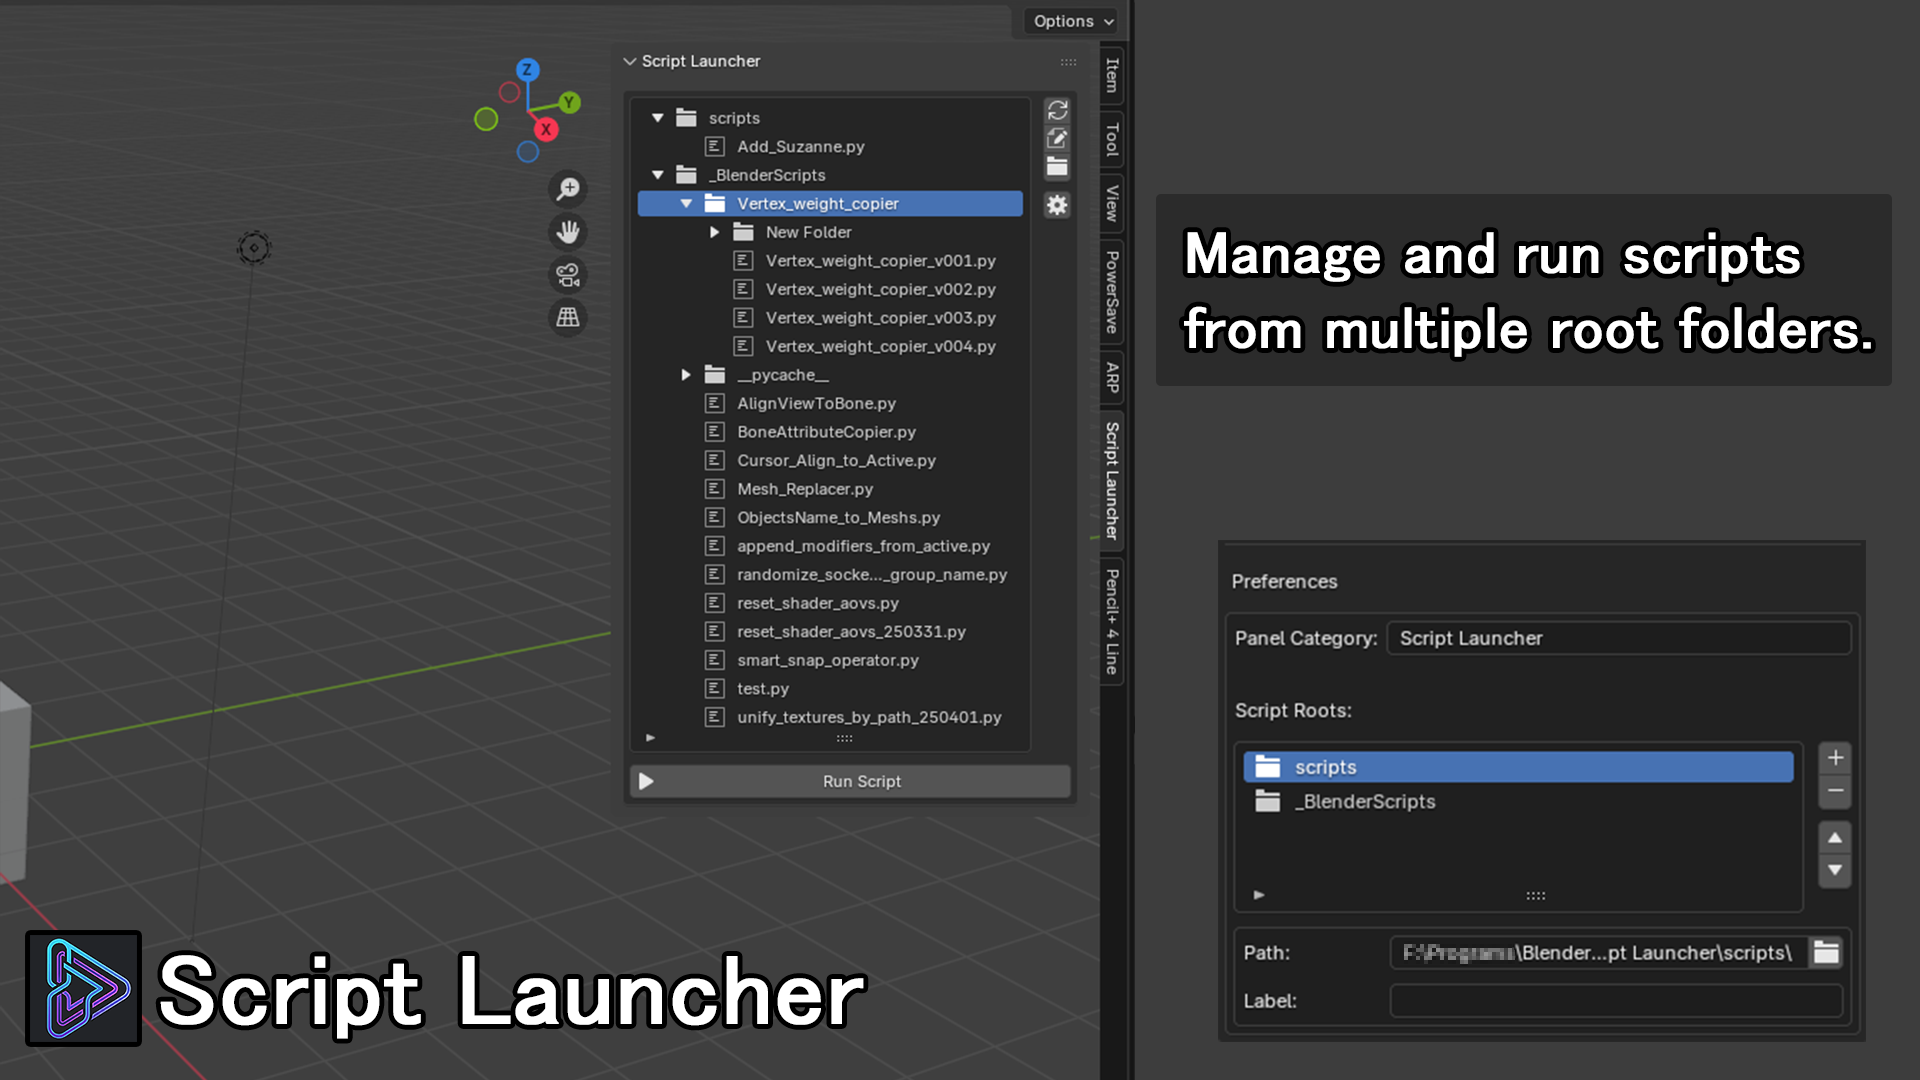
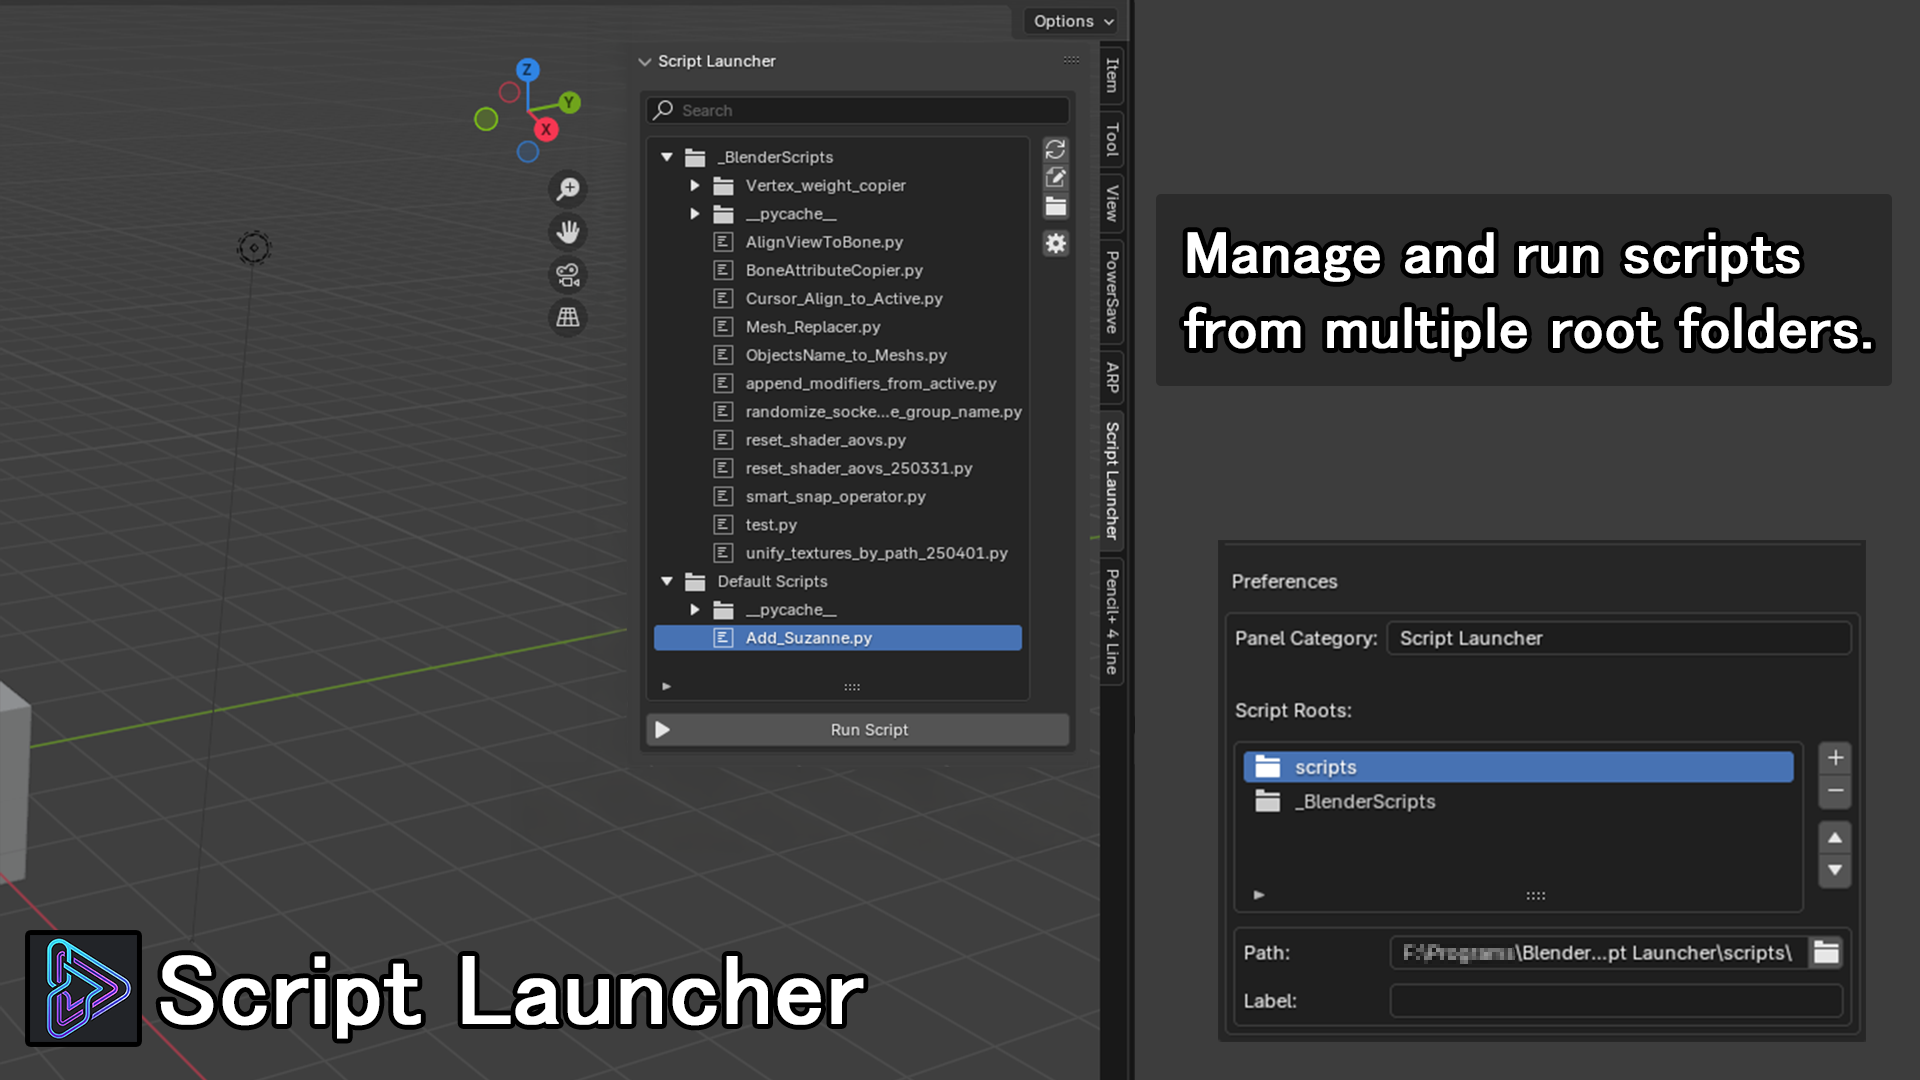
Add search feature and optimize tree building (v1.2.0)
- Add real-time script search with TEXTEDIT_UPDATE option
- Fix selection restoration on search clear using full_path matching
- Introduce filesystem cache (_fs_cache) to avoid redundant reads during typing
- Merge _add_folder_contents/_add_folder_contents_filtered into single function
- Replace _has_match + double-scan with single-pass speculative add/remove approach
- Remove dead code (indent_level == -1 checks)
- Call invalidate_fs_cache() in REMOVE_ROOT operator for consistency
- Bump version to 1.2.0, update README and blender_manifest.toml

Changed region(s): [[0.3125, 0.0917, 0.5625, 0.7333], [0.3125, 0.0306, 0.4062, 0.0611]]

diff --git a/Script Launcher/core.py b/Script Launcher/core.py
@@ -4,11 +4,44 @@ import os
 
 
 # ---------------------------------------------------------------------------
+# ファイルシステムキャッシュ
+# ---------------------------------------------------------------------------
+
+_fs_cache: dict = {}
+
+
+def _get_entries(folder_path):
+    """キャッシュからサブフォルダとPYファイル一覧を返す。"""
+    if folder_path not in _fs_cache:
+        try:
+            entries = os.listdir(folder_path)
+        except (PermissionError, FileNotFoundError):
+            entries = []
+        folders = sorted([
+            e for e in entries
+            if not e.startswith('.') and os.path.isdir(os.path.join(folder_path, e))
+        ])
+        files = sorted([
+            e for e in entries
+            if not e.startswith('.') and e.endswith('.py')
+            and os.path.isfile(os.path.join(folder_path, e))
+        ])
+        _fs_cache[folder_path] = (folders, files)
+    return _fs_cache[folder_path]
+
+
+def invalidate_fs_cache():
+    """キャッシュを破棄する（Refresh時やパス変更時に呼ぶ）。"""
+    _fs_cache.clear()
+
+
+# ---------------------------------------------------------------------------
 # PropertyGroup: ルートフォルダ項目（プリファレンス用）
 # ---------------------------------------------------------------------------
 
 def _on_root_path_update(self, context):
     try:
+        invalidate_fs_cache()
         build_visible_tree(context)
     except (AttributeError, KeyError):
         pass
@@ -47,9 +80,34 @@ class SCRIPTLAUNCHER_TREE_NODE(bpy.types.PropertyGroup):
 # PropertyGroup: Scene に登録するグループ
 # ---------------------------------------------------------------------------
 
+def _on_search_update(self, context):
+    try:
+        # ツリー再構築前に現在の選択パスを保存
+        current_path = ""
+        if self.sl_items and 0 <= self.active_index < len(self.sl_items):
+            current_path = self.sl_items[self.active_index].full_path
+        build_visible_tree(context)
+        # 再構築後にfull_pathで選択を復元
+        if current_path:
+            for i, item in enumerate(self.sl_items):
+                if item.full_path == current_path:
+                    self.active_index = i
+                    break
+        if context.area:
+            context.area.tag_redraw()
+    except (AttributeError, KeyError):
+        pass
+
+
 class SCRIPTLAUNCHER_PG(bpy.types.PropertyGroup):
     sl_items: bpy.props.CollectionProperty(type=SCRIPTLAUNCHER_TREE_NODE)
     active_index: bpy.props.IntProperty()
+    search_text: bpy.props.StringProperty(
+        name="Search",
+        default="",
+        options={"TEXTEDIT_UPDATE"},
+        update=_on_search_update,
+    )
 
 
 # ---------------------------------------------------------------------------
@@ -60,8 +118,9 @@ def build_visible_tree(context):
     """全ルートフォルダからフラットなツリーリストを再構築する。"""
     addon_prefs = context.preferences.addons[__package__].preferences
     sl_group = context.scene.sl_group
+    query = sl_group.search_text.strip().lower()
 
-    # 現在の展開状態を保存
+    # 現在の展開状態を保存（通常モード用）
     expanded_paths = {
         item.full_path
         for item in sl_group.sl_items
@@ -71,24 +130,37 @@ def build_visible_tree(context):
 
     sl_group.sl_items.clear()
 
-    for i, root in enumerate(addon_prefs.sl_folders):
+    for root in addon_prefs.sl_folders:
         if not root.path or not os.path.isdir(root.path):
             continue
 
-        # ルートヘッダー
         display_name = root.label.strip() or os.path.basename(root.path.rstrip('/\\')) or root.path
-        header = sl_group.sl_items.add()
-        header.name = display_name
-        header.full_path = root.path
-        header.is_folder = True
-        header.is_root_header = True
-        header.indent_level = 0
-        # 新規ルートはデフォルト展開、既存ルートは保存状態を復元
-        header.is_expanded = root.path not in known_paths or root.path in expanded_paths
 
-        # ルート直下のコンテンツ（展開時のみ）
-        if header.is_expanded:
-            _add_folder_contents(sl_group, root.path, expanded_paths, indent=1)
+        if query:
+            # 検索モード: ルートを仮追加し、子孫にマッチがなければ取り消す
+            idx = len(sl_group.sl_items)
+            header = sl_group.sl_items.add()
+            header.name = display_name
+            header.full_path = root.path
+            header.is_folder = True
+            header.is_root_header = True
+            header.indent_level = 0
+            header.is_expanded = True
+            children_added = _add_folder_contents(sl_group, root.path, expanded_paths, indent=1, query=query)
+            if not children_added and query not in display_name.lower():
+                sl_group.sl_items.remove(idx)
+        else:
+            # 通常モード
+            is_new = root.path not in known_paths
+            header = sl_group.sl_items.add()
+            header.name = display_name
+            header.full_path = root.path
+            header.is_folder = True
+            header.is_root_header = True
+            header.indent_level = 0
+            header.is_expanded = is_new or root.path in expanded_paths
+            if header.is_expanded:
+                _add_folder_contents(sl_group, root.path, expanded_paths, indent=1)
 
     # active_index を範囲内に収める
     total = len(sl_group.sl_items)
@@ -96,43 +168,66 @@ def build_visible_tree(context):
         sl_group.active_index = min(sl_group.active_index, total - 1)
 
 
-def _add_folder_contents(sl_group, folder_path, expanded_paths, indent):
-    """フォルダの中身をツリーリストに追加する（再帰）。"""
-    try:
-        entries = os.listdir(folder_path)
-    except (PermissionError, FileNotFoundError):
-        return
+def _add_folder_contents(sl_group, folder_path, expanded_paths, indent, query=""):
+    """フォルダの中身をツリーリストに追加する（再帰）。
 
-    folders = sorted([
-        e for e in entries
-        if not e.startswith('.') and os.path.isdir(os.path.join(folder_path, e))
-    ])
-    files = sorted([
-        e for e in entries
-        if not e.startswith('.') and e.endswith('.py')
-        and os.path.isfile(os.path.join(folder_path, e))
-    ])
+    queryが指定された場合は検索モードで動作し、仮追加→不要なら取り消す方式で
+    二重スキャンなしにマッチ判定と追加を同時に行う。マッチがあればTrueを返す。
+    """
+    folders, files = _get_entries(folder_path)
+    any_added = False
 
     for name in folders:
         full = os.path.join(folder_path, name)
-        item = sl_group.sl_items.add()
-        item.name = name
-        item.full_path = full
-        item.is_folder = True
-        item.is_root_header = False
-        item.indent_level = indent
-        item.is_expanded = full in expanded_paths
-        if item.is_expanded:
-            _add_folder_contents(sl_group, full, expanded_paths, indent + 1)
+        if query:
+            if query in name.lower():
+                # フォルダ名マッチ: 表示のみ、中身は展開しない
+                item = sl_group.sl_items.add()
+                item.name = name
+                item.full_path = full
+                item.is_folder = True
+                item.is_root_header = False
+                item.indent_level = indent
+                item.is_expanded = False
+                any_added = True
+            else:
+                # 仮追加して再帰。子孫にマッチがなければ取り消す
+                idx = len(sl_group.sl_items)
+                item = sl_group.sl_items.add()
+                item.name = name
+                item.full_path = full
+                item.is_folder = True
+                item.is_root_header = False
+                item.indent_level = indent
+                item.is_expanded = True
+                if _add_folder_contents(sl_group, full, expanded_paths, indent + 1, query):
+                    any_added = True
+                else:
+                    sl_group.sl_items.remove(idx)
+        else:
+            item = sl_group.sl_items.add()
+            item.name = name
+            item.full_path = full
+            item.is_folder = True
+            item.is_root_header = False
+            item.indent_level = indent
+            item.is_expanded = full in expanded_paths
+            if item.is_expanded:
+                _add_folder_contents(sl_group, full, expanded_paths, indent + 1)
 
     for name in files:
         full = os.path.join(folder_path, name)
+        if query and query not in name.lower():
+            continue
         item = sl_group.sl_items.add()
         item.name = name
         item.full_path = full
         item.is_folder = False
         item.is_root_header = False
         item.indent_level = indent
+        any_added = True
+
+    return any_added
 
 
 # ---------------------------------------------------------------------------
@@ -207,8 +302,15 @@ class SCRIPTLAUNCHER_PT_PANEL(bpy.types.Panel):
         layout = self.layout
         box = layout.box()
 
-        # ツリーリスト + 縦ボタン列
         sl_group = context.scene.sl_group
+
+        # 検索バー
+        row = box.row(align=True)
+        row.prop(sl_group, "search_text", text="", icon='VIEWZOOM')
+        if sl_group.search_text:
+            row.operator("sl.op_clear_search", text="", icon='X')
+
+        # ツリーリスト + 縦ボタン列
         row = box.row()
         row.template_list(
             "SCRIPTLAUNCHER_UL_LIST", "",

diff --git a/Script Launcher/operators.py b/Script Launcher/operators.py
@@ -15,6 +15,7 @@ class SCRIPTLAUNCHER_OT_REFRESHLIST(bpy.types.Operator):
     bl_description = "Reload scripts list from all root folders"
 
     def execute(self, context):
+        core.invalidate_fs_cache()
         core.build_visible_tree(context)
         return {'FINISHED'}
 
@@ -37,7 +38,7 @@ class SCRIPTLAUNCHER_OT_RUNSCRIPT(bpy.types.Operator):
 
         item = sl_group.sl_items[sl_group.active_index]
 
-        if item.is_root_header or item.indent_level == -1:
+        if item.is_root_header:
             self.report({'WARNING'}, "Select a script file to run")
             return {'CANCELLED'}
 
@@ -83,7 +84,7 @@ class SCRIPTLAUNCHER_OT_OPENFILE(bpy.types.Operator):
 
         item = sl_group.sl_items[sl_group.active_index]
 
-        if item.is_folder or item.is_root_header or item.indent_level == -1:
+        if item.is_folder or item.is_root_header:
             self.report({'WARNING'}, "Select a script file to open")
             return {'CANCELLED'}
 
@@ -125,9 +126,6 @@ class SCRIPTLAUNCHER_OT_OPENEXPLORER(bpy.types.Operator):
             return {'CANCELLED'}
 
         item = sl_group.sl_items[sl_group.active_index]
-
-        if item.indent_level == -1:
-            return {'CANCELLED'}
 
         # ファイルなら親フォルダ、フォルダ/ルートヘッダーはそのパス
         if item.is_folder or item.is_root_header:
@@ -194,6 +192,20 @@ class SCRIPTLAUNCHER_OT_TOGGLEFOLDER(bpy.types.Operator):
 
 
 # ---------------------------------------------------------------------------
+# 検索クリア
+# ---------------------------------------------------------------------------
+
+class SCRIPTLAUNCHER_OT_CLEAR_SEARCH(bpy.types.Operator):
+    bl_idname = "sl.op_clear_search"
+    bl_label = "Clear Search"
+    bl_description = "Clear the search filter"
+
+    def execute(self, context):
+        context.scene.sl_group.search_text = ""
+        return {'FINISHED'}
+
+
+# ---------------------------------------------------------------------------
 # ルートフォルダの追加・削除（プリファレンス用）
 # ---------------------------------------------------------------------------
 
@@ -224,6 +236,7 @@ class SCRIPTLAUNCHER_OT_REMOVE_ROOT(bpy.types.Operator):
         addon_prefs.sl_folders.remove(idx)
         addon_prefs.active_root_index = max(0, min(idx, len(addon_prefs.sl_folders) - 1))
 
+        core.invalidate_fs_cache()
         core.build_visible_tree(context)
         return {'FINISHED'}
 

diff --git a/Script Launcher/__init__.py b/Script Launcher/__init__.py
@@ -1,7 +1,7 @@
 bl_info = {
     "name": "Script Launcher",
     "author": "Moteki",
-    "version": (1, 1, 2),
+    "version": (1, 2, 0),
     "blender": (4, 2, 0),
     "location": "3D Viewport > Sidebar > Script Launcher",
     "description": "Manage and run Python scripts from multiple root folders",
@@ -88,6 +88,7 @@ classes = [
     operators.SCRIPTLAUNCHER_OT_ADD_ROOT,
     operators.SCRIPTLAUNCHER_OT_REMOVE_ROOT,
     operators.SCRIPTLAUNCHER_OT_MOVE_ROOT,
+    operators.SCRIPTLAUNCHER_OT_CLEAR_SEARCH,
 ]
 
 

diff --git a/README.md b/README.md
@@ -12,6 +12,7 @@
 - **テキストエディタで開く** — 選択したスクリプトを Blender 内蔵のテキストエディタに読み込む（既存の Text Editor エリアがあればそこに表示、なければ新規ウィンドウで開く）
 - **ファイルマネージャーで開く** — 選択したファイル・フォルダを OS のファイルマネージャーで表示
 - **展開状態の保持** — リスト更新後もフォルダの展開/折り畳み状態を維持
+- **スクリプト検索** — 名前でリアルタイムにフィルタリング。🔍 アイコン横の入力欄に入力、× で解除
 
 ## 動作環境
 
@@ -48,6 +49,9 @@
 初回インストール時は、アドオンフォルダ内の `scripts/` フォルダが自動的に登録されます。
 
 ## 更新履歴
+
+### v1.2.0
+- スクリプト検索機能を追加（リアルタイムフィルタリング）
 
 ### v1.1.2
 - UIList の非推奨 API (`layout_type`) を削除
